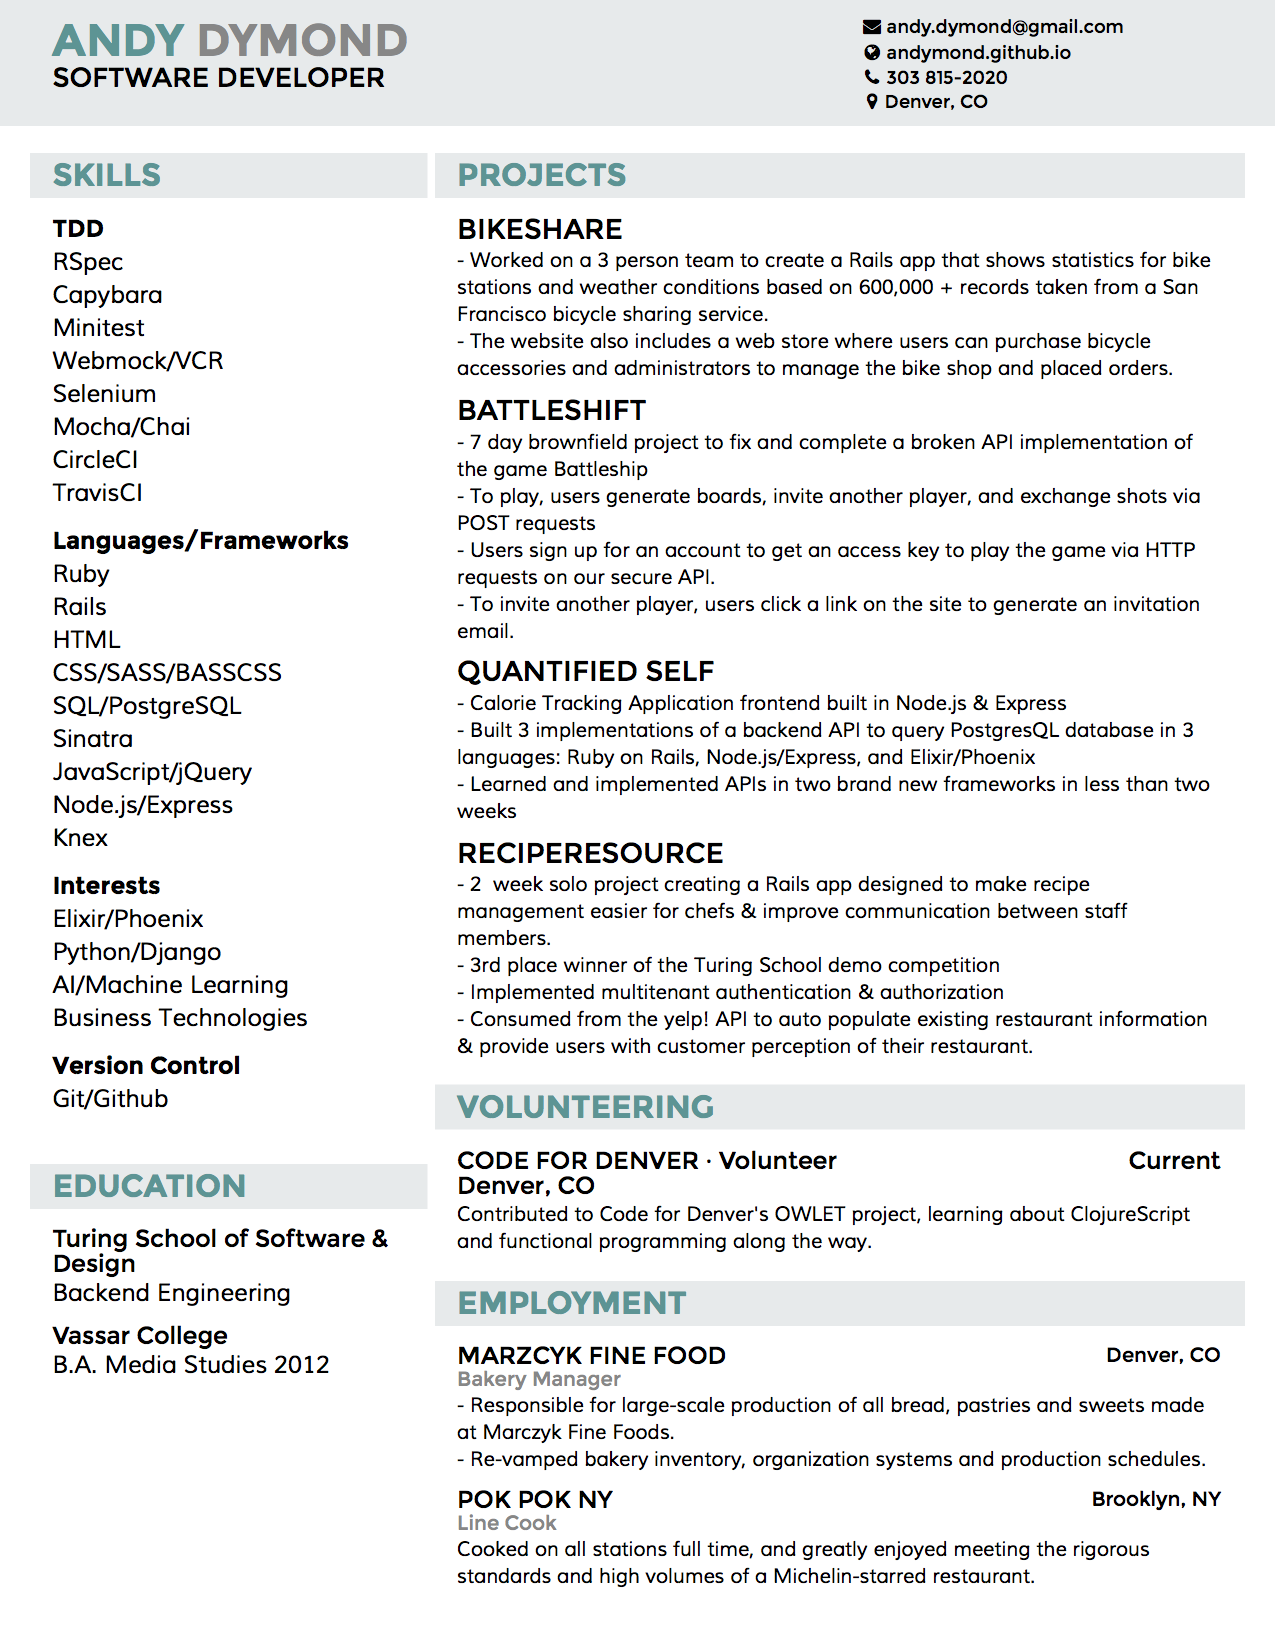
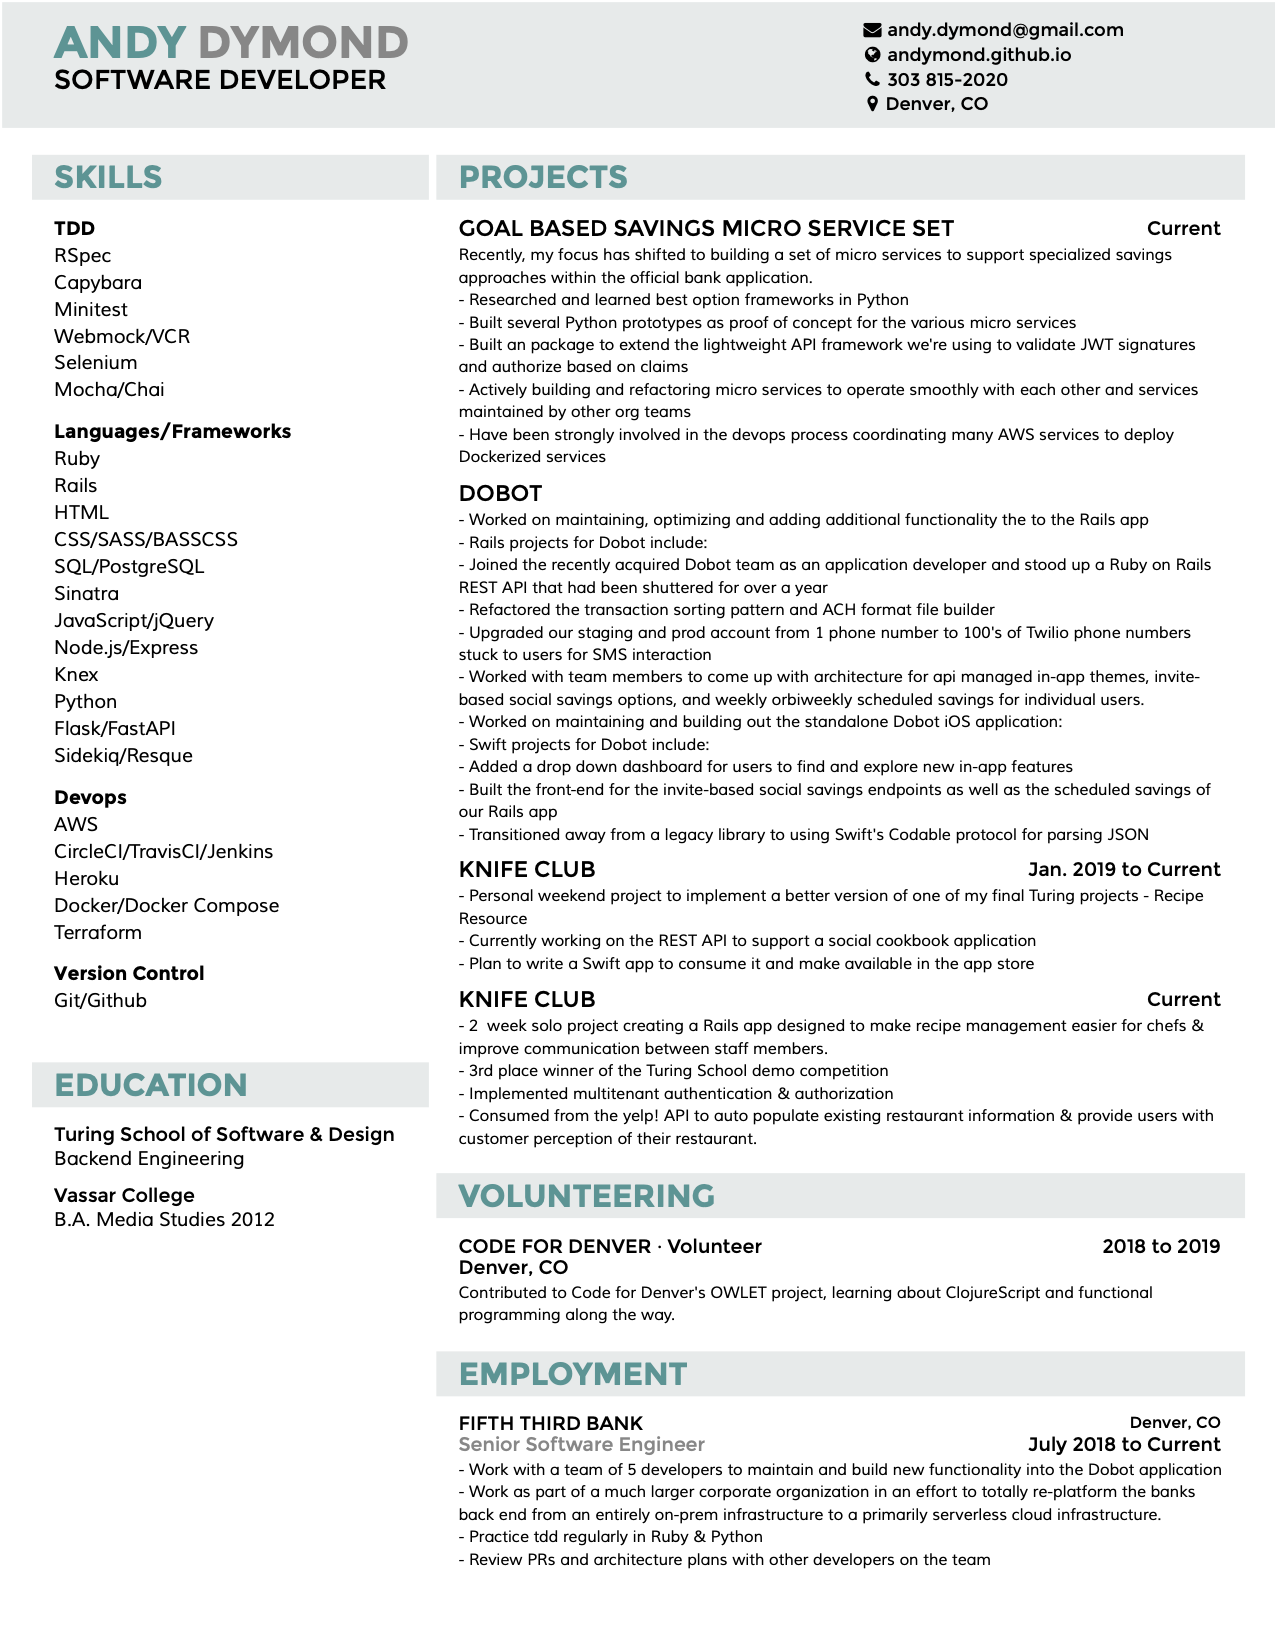
Update assets

diff --git a/index.html b/index.html
@@ -42,6 +42,15 @@
 
     <section id="projects-carousel" class="projects">
       <div class="project-example" >
+        <h2 class="m1">Dobot</h2>
+        <p>Goal Based Savings Application (Where I work now!)</p>
+        <p>Work to maintain static website, Ruby on Rails REST Api & Management Portal, and iOS Application</p>
+        <div class="project-links">
+          <p>Privately owned code</p>
+        </div>
+        <img src="stylesheets/images/dobot-static-site.png" alt="BenchScraper Screenshot" class="border rounded">
+      </div>
+      <div class="project-example" >
         <h2 class="m1">BenchScraper</h2>
         <p>Price comparison API based on pricing data scraped from the internet</p>
         <p>Stack: HTML/CSS, JavaScript, Node.js, Python/Scrapy</p>
@@ -115,23 +124,23 @@
         <h4>Languages & Frameworks</h4>
         <ul>
           <li>Ruby / Sinatra / Rails</li>
-          <li>SQL / PostgreSQL</li>
-          <li>HTML5</li>
-          <li>CSS / SASS / BASSCSS</li>
+          <li>SQL / PostgreSQL / Redis</li>
+          <li>Swift 5 / Xcode</li>
+          <li>HTML5 / CSS / SASS</li>
           <li>JavaScript / jQuery</li>
           <li>Node.js / Express / Knex</li>
+          <li>Python / Flask / FastAPI</li>
         </ul>
       </div>
       <div class="testing skillset">
         <h4>Test-Driven Development & Version Control</h4>
         <ul>
-          <li>Minitest</li>
-          <li>RSpec</li>
+          <li>RSpec/Minitest/Capybara</li>
+          <li>Pytest</li>
           <li>WebMock & VCR</li>
           <li>Selenium</li>
-          <li>Capybara</li>
-          <li>Mocha / Chai</li>
-          <li>Travis CI / Circle CI</li>
+          <li>Mocha/Chai</li>
+          <li>Circle CI/Jenkins</li>
           <li>Git/GitHub</li>
         </ul>
       </div>
@@ -144,13 +153,12 @@
           <li>AI/Machine Learning</li>
           <li>Business Technologies</li>
           <li>Elixir / Phoenix</li>
-          <li>ClojureScript / ReFrame</li>
         </ul>
       </div>
     </section>
 
     <section id="resume">
-      <a href="https://www.dropbox.com/s/fw7sxut2oxs1ziz/Dymond_Developer_Resume.pdf?dl=0">
+      <a href="https://drive.google.com/file/d/1WFo2BZgwSJeEb3N6Km9qcpjLtPIq4UF0/view?usp=sharing">
         <img src="stylesheets/images/dymond_resume.png" alt="" style="max-width: 95%">
       </a>
     </section>
@@ -161,7 +169,7 @@
       <div class="social-media-bar">
         <a href="https://www.linkedin.com/in/andydymond/"><i class="fab fa-linkedin"></i></a>
         <a href="https://github.com/andymond"><i class="fab fa-github"></i></a>
-        <a href="https://twitter.com/andydymond"><i class="fab fa-twitter"></i></a>
+        <a href="https://twitter.com/a__dymond"><i class="fab fa-twitter"></i></a>
         <a href="https://medium.com/@andy.dymond"><i class="fab fa-medium-m"></i></a>
       </div>
     </section>
